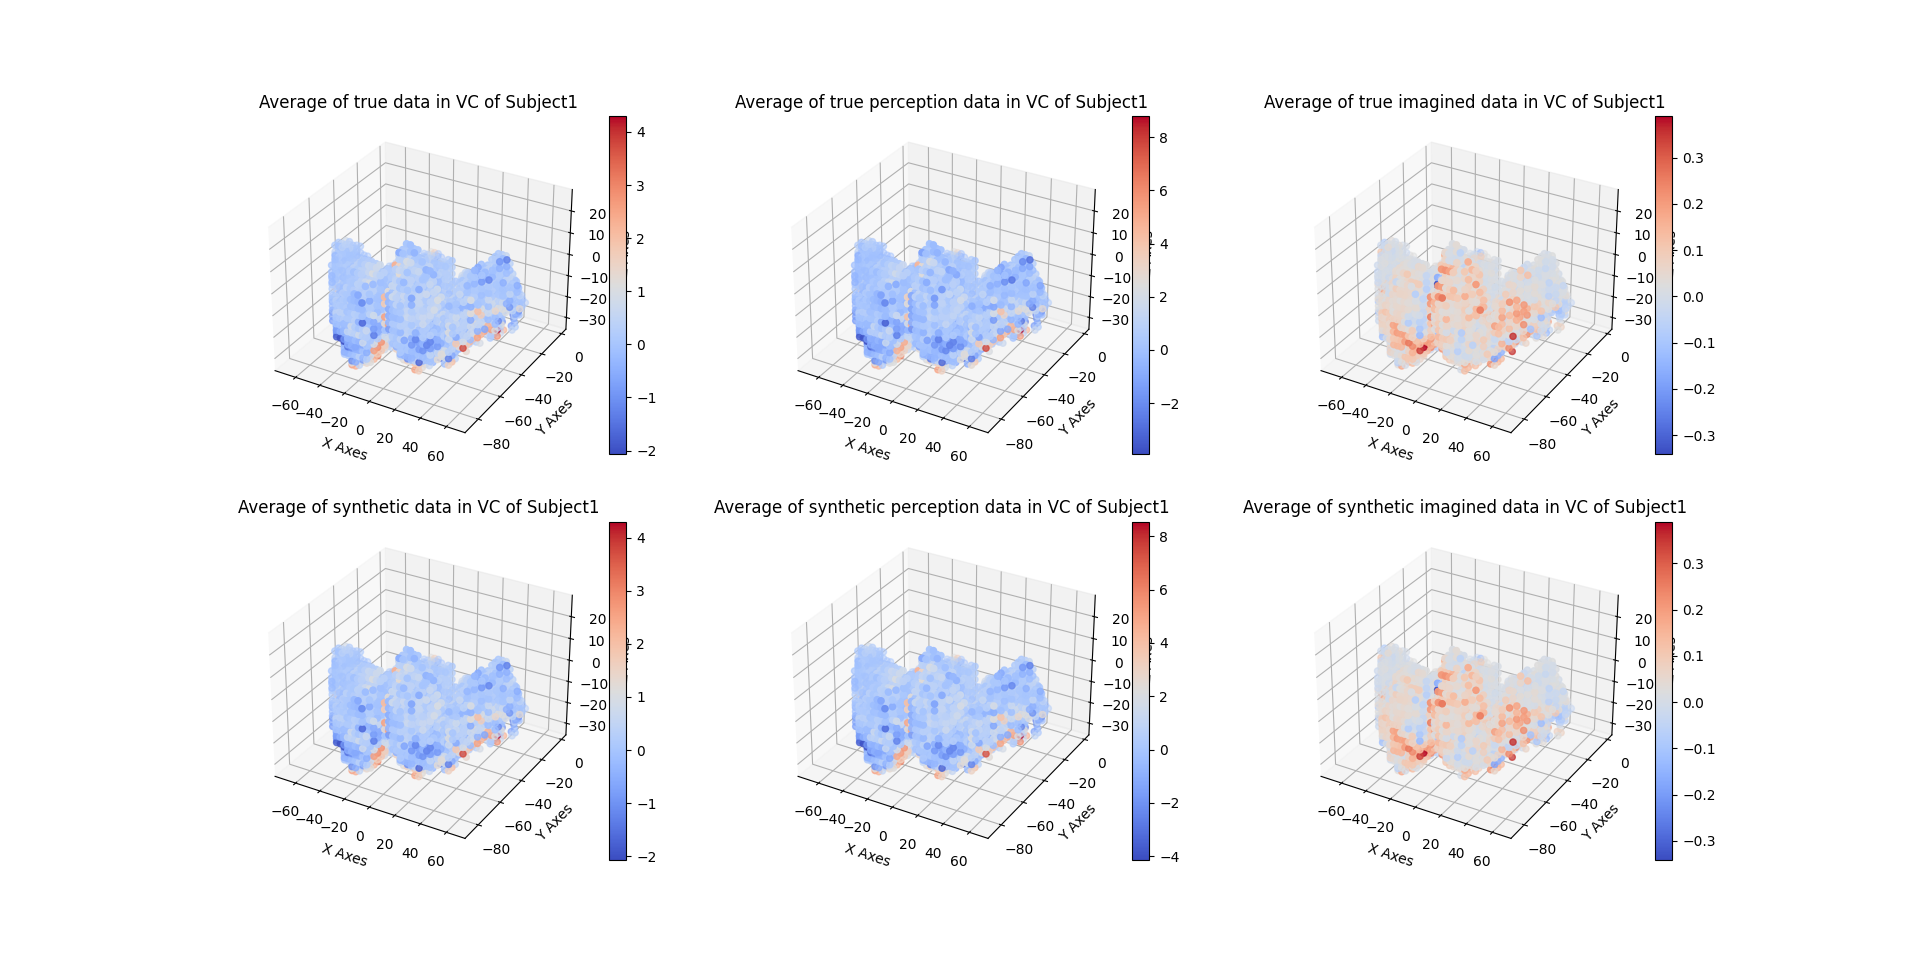
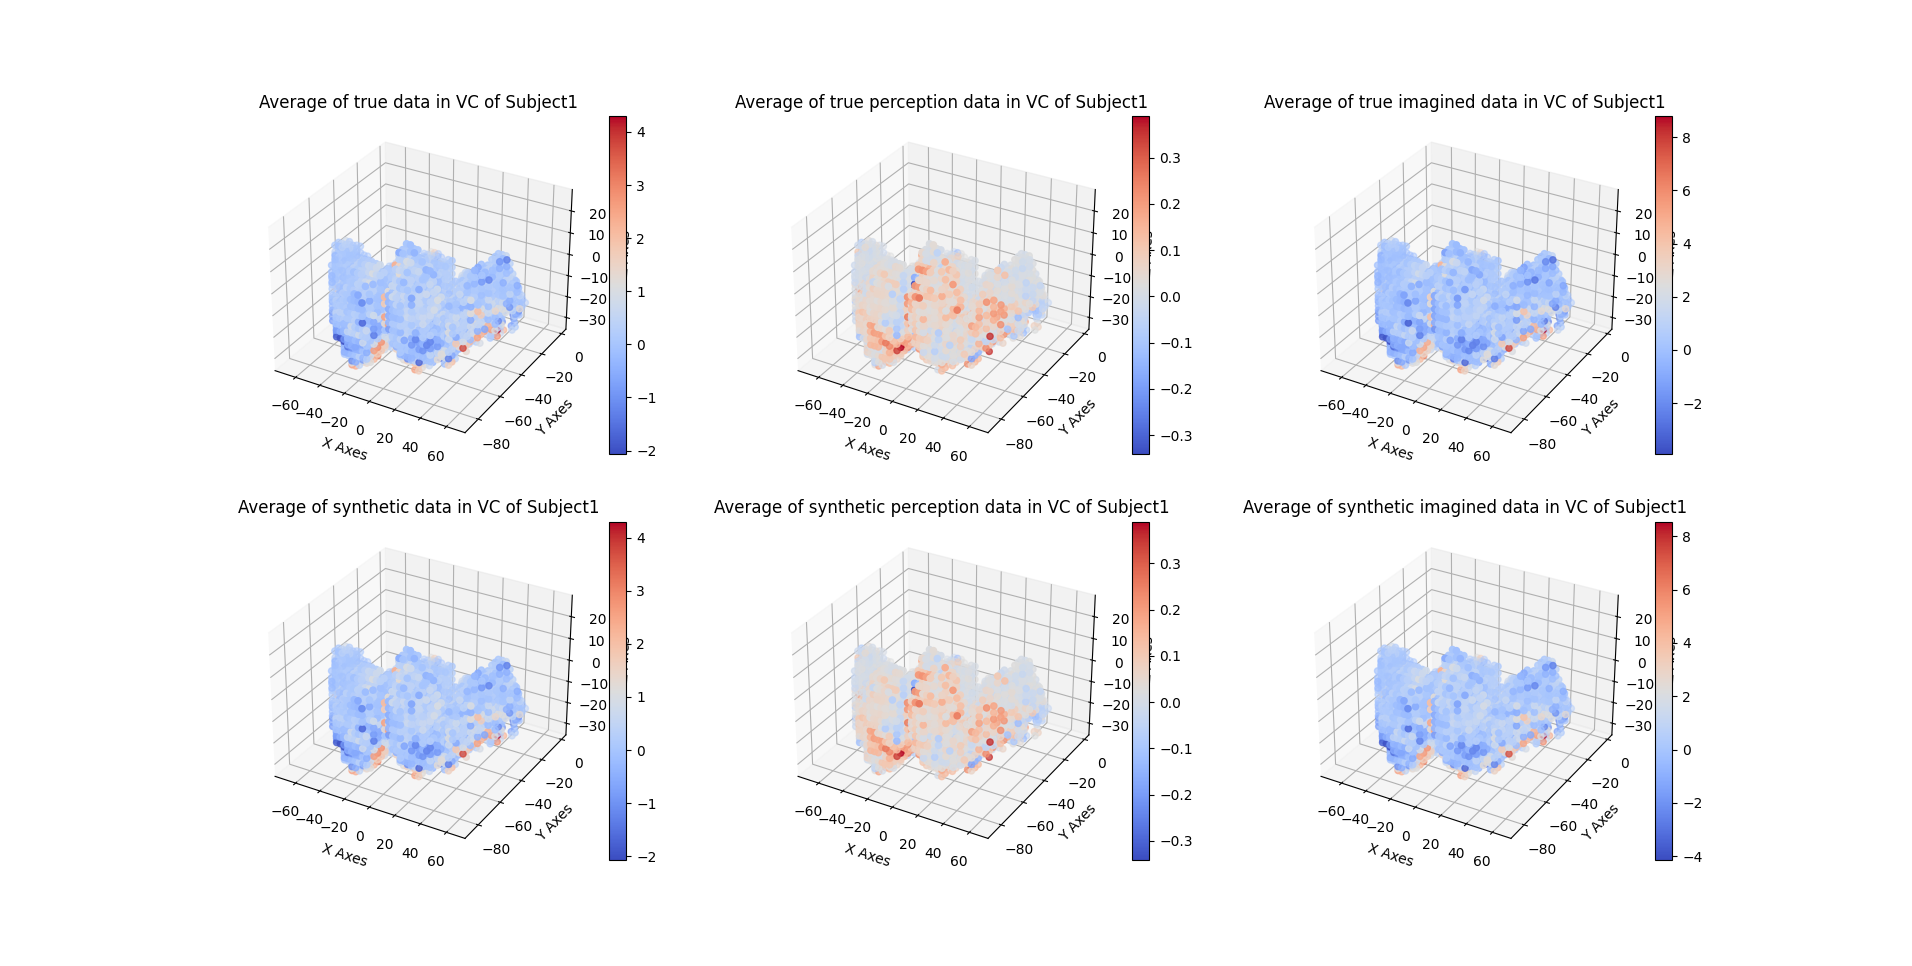
nn with cv and all subjects

diff --git a/rohit_nn_subject1.py b/rohit_nn_subject1.py
@@ -1,0 +1,102 @@
+import numpy as np
+import os
+from god_config import *
+import bdpy
+dir_path = os.path.dirname(os.path.realpath(__file__)) #current directory
+####################################################
+#ML part
+from sklearn.preprocessing import normalize
+from sklearn.model_selection import RepeatedStratifiedKFold, GridSearchCV, train_test_split
+from sklearn.dummy import DummyClassifier
+from sklearn.model_selection import cross_val_score
+from sklearn.model_selection import RepeatedStratifiedKFold
+from sklearn.metrics import confusion_matrix, accuracy_score, precision_score
+
+from imblearn.over_sampling import SMOTE
+from imblearn.under_sampling import RandomUnderSampler
+from imblearn.pipeline import Pipeline
+from sklearn.preprocessing import OneHotEncoder
+
+import tensorflow as tf
+from tensorflow import keras
+from tensorflow.keras.models import Sequential
+from tensorflow.keras.layers import Dense, Conv3D, Dropout, Flatten, MaxPooling3D
+from tensorflow.keras.wrappers.scikit_learn import KerasClassifier
+from tensorflow.keras.backend import clear_session
+
+for subject in {'Subject1'}: #for now only subject1, later on replace with subjects dictionary from god_config
+    for roi in ['VC']:
+        if not os.path.exists(dir_path+'/results/neural-network/'):
+            os.makedirs(dir_path+'/results/neural-network/')
+        f=open(dir_path+'/results/neural-network/'+subject+'_'+roi+'_'+'imagination_accuracy-flat'+'.txt','w')
+        subject_fmri=bdpy.BData(subjects[subject])
+        X=subject_fmri.select(rois[roi])
+        del subject_fmri
+        datatype=np.load(dir_path+'/data/'+subject+'_'+'datatype'+'.npy')
+
+        input_shape=X.shape
+
+        y=[]
+        for j in range(len(datatype)):
+            if datatype[j]==3:
+                y.append(1)
+            else:
+                y.append(0)
+        y=np.array(y)
+
+        model = DummyClassifier(strategy="most_frequent")
+        model.fit(X, y)
+        y_pred = model.predict(X)
+        accuracy1 = accuracy_score(y, y_pred)
+        print('Base Accuracy: ' + roi ,accuracy1,file=f)
+
+        cv = RepeatedStratifiedKFold(n_splits=5, n_repeats=2, random_state=2)
+
+        conf_matrix_list_of_arrays = []
+        scores=[]
+        for train_index, test_index in cv.split(X, y):
+            X_train, X_test = X[train_index], X[test_index]
+            y_train, y_test = y[train_index], y[test_index]
+            over = SMOTE(random_state=2)
+            under = RandomUnderSampler(random_state=2)
+            steps = [('o', over), ('u', under)]
+            pipeline = Pipeline(steps=steps)
+            # transform the dataset
+            # print("Before SMOLE",X_train.shape)
+            X_train=X_train.reshape(X_train.shape[0],-1)
+            X_train, y_train = pipeline.fit_resample(X_train, y_train)
+            X_train = X_train.reshape((-1,input_shape[1]))
+            # print("After SMOLE",X_train.shape)
+
+            ohe=OneHotEncoder()
+            y_train=ohe.fit_transform(y_train.reshape(-1,1)).toarray()
+
+
+            def create_model():
+                model = Sequential()
+                model.add(Dense(128, activation = 'relu',input_dim=input_shape[1]))
+                model.add(Dropout(0.9))
+                model.add(Dense(2, activation='softmax'))
+                model.compile(loss='categorical_crossentropy', optimizer='adam', metrics=['accuracy'])
+                return model
+
+            model = create_model()
+
+            model.fit(X_train,y_train,epochs=3,verbose=0)
+            y_pred = model.predict(X_test)
+
+            #Converting predictions to label
+            pred = list()
+            for i in range(len(y_pred)):
+                pred.append(np.argmax(y_pred[i]))
+
+            conf_matrix = confusion_matrix(y_test, pred)
+            conf_matrix_list_of_arrays.append(conf_matrix)
+            score=accuracy_score(y_test, pred)
+            scores.append(score)
+
+        mean_of_conf_matrix_arrays = np.mean(conf_matrix_list_of_arrays, axis=0)
+        print(mean_of_conf_matrix_arrays,file=f)
+        print('Accuracy: %.7f (%.7f)' % (np.mean(scores), np.std(scores)),file=f)
+
+        f.close()

diff --git a/rohit_smote_analysis.py b/rohit_smote_analysis.py
@@ -17,13 +17,6 @@ from imblearn.under_sampling import RandomUnderSampler
 from imblearn.pipeline import Pipeline
 from sklearn.preprocessing import OneHotEncoder,MinMaxScaler
 
-import tensorflow as tf
-from tensorflow import keras
-from tensorflow.keras.models import Sequential
-from tensorflow.keras.layers import Dense, Conv3D, Dropout, Flatten, MaxPooling3D
-from tensorflow.keras.wrappers.scikit_learn import KerasClassifier
-from tensorflow.keras.backend import clear_session
-
 import matplotlib.pyplot as plt
 from mpl_toolkits.mplot3d import axes3d
 
@@ -59,8 +52,8 @@ for subject in {'Subject1'}: #for now only subject1, later on replace with subje
 
         X_train, X_test, y_train, y_test = train_test_split(X, y, test_size=0.2, random_state=3)
 
-        true_im=X_train[y_train==0]
-        true_pt=X_train[y_train==1]
+        true_im=X_train[y_train==1]
+        true_pt=X_train[y_train==0]
 
         over = SMOTE(random_state=2)
         under = RandomUnderSampler(random_state=2)
@@ -73,33 +66,8 @@ for subject in {'Subject1'}: #for now only subject1, later on replace with subje
         X_train = X_train.reshape((-1,input_shape[1]))
         print("After SMOLE",X_train.shape)
 
-        smote_im=X_train[y_train==0]
-        smote_pt=X_train[y_train==1]
-
-        ohe=OneHotEncoder()
-        y_train=ohe.fit_transform(y_train.reshape(-1,1)).toarray()
-
-
-        def create_model():
-            model = Sequential()
-            model.add(Dense(128, activation = 'relu',input_dim=input_shape[1]))
-            model.add(Dropout(0.9))
-            model.add(Dense(2, activation='softmax'))
-            model.compile(loss='categorical_crossentropy', optimizer='adam', metrics=['accuracy'])
-            return model
-
-        model = create_model()
-
-        model.fit(X_train,y_train,epochs=10,verbose=0)
-        y_pred = model.predict(X_test)
-
-        #Converting predictions to label
-        pred = list()
-        for i in range(len(y_pred)):
-            pred.append(np.argmax(y_pred[i]))
-
-        print(confusion_matrix(y_true=y_test, y_pred=pred))
-        print("accuracy", accuracy_score(y_test, pred))
+        smote_im=X_train[y_train==1]
+        smote_pt=X_train[y_train==0]
 
         smote_av = np.mean(X_train,axis=0)
         smote_im_av = np.mean(smote_im,axis=0)

diff --git a/rohit_nn_all_subjects.py b/rohit_nn_all_subjects.py
@@ -25,14 +25,12 @@ from tensorflow.keras.wrappers.scikit_learn import KerasClassifier
 from tensorflow.keras.backend import clear_session
 
 for subject in {'Subject1'}: #for now only subject1, later on replace with subjects dictionary from god_config
-    for roi in rois:
+    for roi in ['VC']:
         if not os.path.exists(dir_path+'/results/neural-network/'):
             os.makedirs(dir_path+'/results/neural-network/')
-        f=open(dir_path+'/results/neural-network/'+subject+'_'+roi+'_'+'imagination_accuracy-flat'+'.txt','w')
-        subject_fmri=bdpy.BData(subjects[subject])
-        X=subject_fmri.select(rois[roi])
-        del subject_fmri
-        datatype=np.load(dir_path+'/data/'+subject+'_'+'datatype'+'.npy')
+        f=open(dir_path+'/results/neural-network-all-subjects/'+subject+'_'+roi+'_'+'imagination_accuracy-flat'+'.txt','w')
+        X = np.load(dir_path+'/padded_data/VC.npy')
+        datatype=np.load(dir_path+'/padded_data/datatype.npy')
 
         input_shape=X.shape
 
